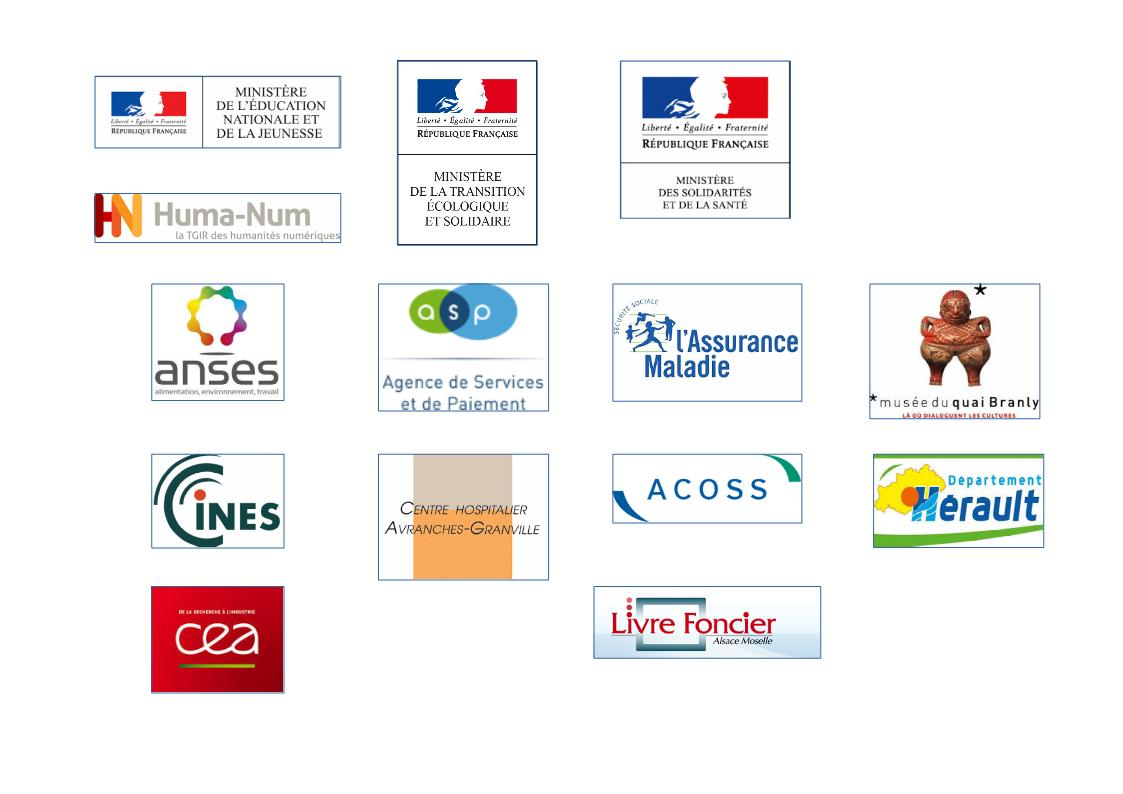
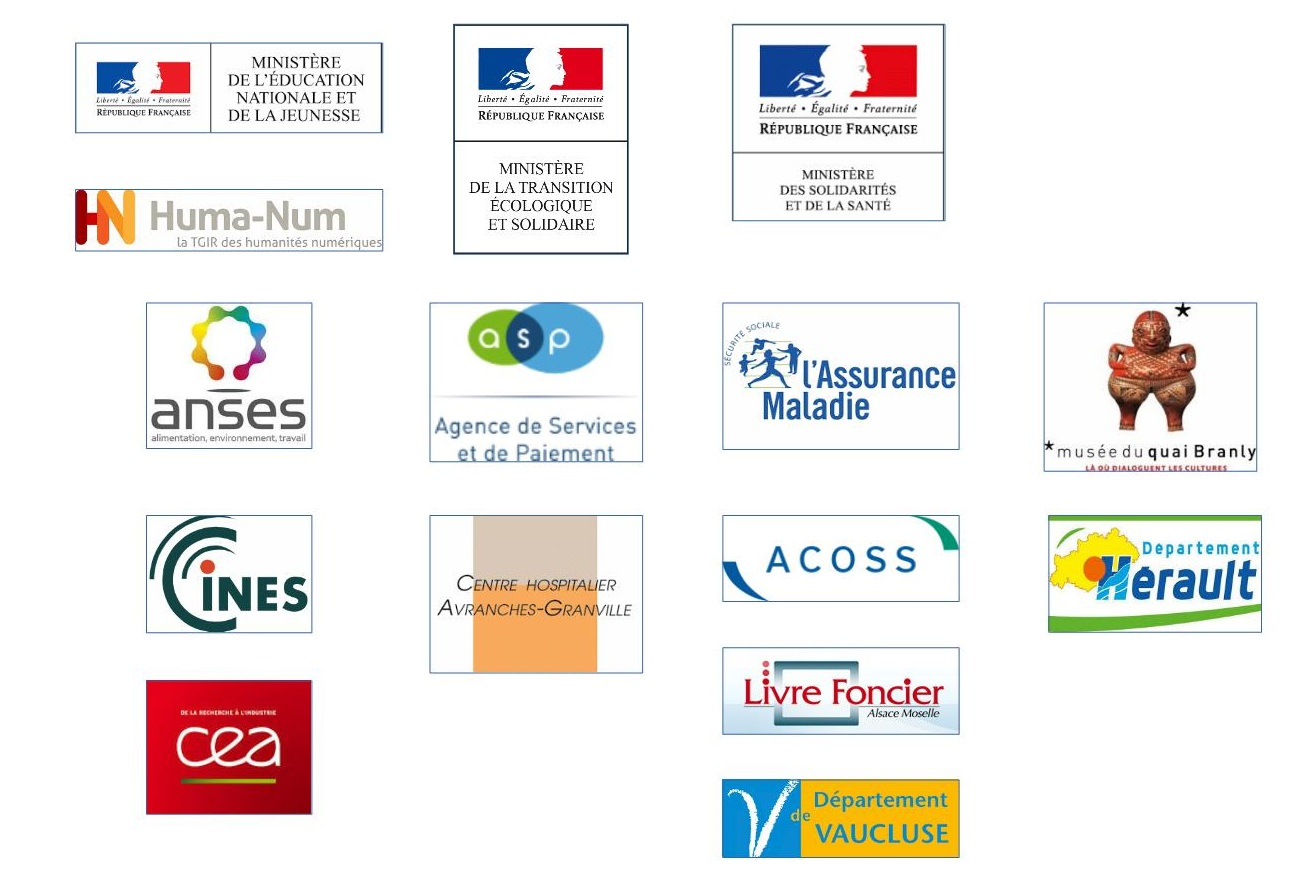
Site V2 - Minor change
Publication Newsletter - MAJ Partenaires

diff --git a/pages/documentation/index.md b/pages/documentation/index.md
@@ -69,7 +69,7 @@ l’utilisation des habilitations (gestion des utilisateurs applicatifs et de le
 * **Manuel d'intégration applicative** - présentation des principes de d'usage des interfaces ([pdf](/ressources/DocCourante/pdf/vitam-manuel-integration.2.6.1.pdf) \| [html](/ressources/DocCourante/html/manuel-integration))
 * **Modèle de données** - description des collections et des champs standards  
 ([pdf](/ressources/DocCourante/autres/fonctionnel/VITAM_Modele_de_donnees.pdf) \| [html](/ressources/DocCourante/html/data-model)) - Version HTML à venir
-* **Documentation d'API externes** - description des API REST externes en Html ([html](/ressources/DocCourante/raml/externe/))
+* **Documentation d'API externes** - description des API REST externes en Html ([html](/ressources/DocCourante/raml/externe))
 * **Manuel de développement** - éléments d'architecture interne et de méthode utiles aux développements de la solution logicielle VITAM ([pdf](/ressources/DocCourante/pdf/vitam-manuel-developpement.2.6.1.pdf)
 \| [html](/ressources/DocCourante/html/manuel-dev))
 * **Documentation d'API internes** - description des API REST internes en Html et Raml ([html&raml](/ressources/DocCourante/raml/interne/))

diff --git a/pages/presentation/pres_acteurs.md b/pages/presentation/pres_acteurs.md
@@ -33,6 +33,8 @@ fatherref: presentation
 * Ministère des Solidarités et de la Santé,
 * Musée du quai Branly - Jacques-Chirac,
 * TGIR Huma-Num,
+* Conseil Départemental de Vaucluse
+
 
 
 
